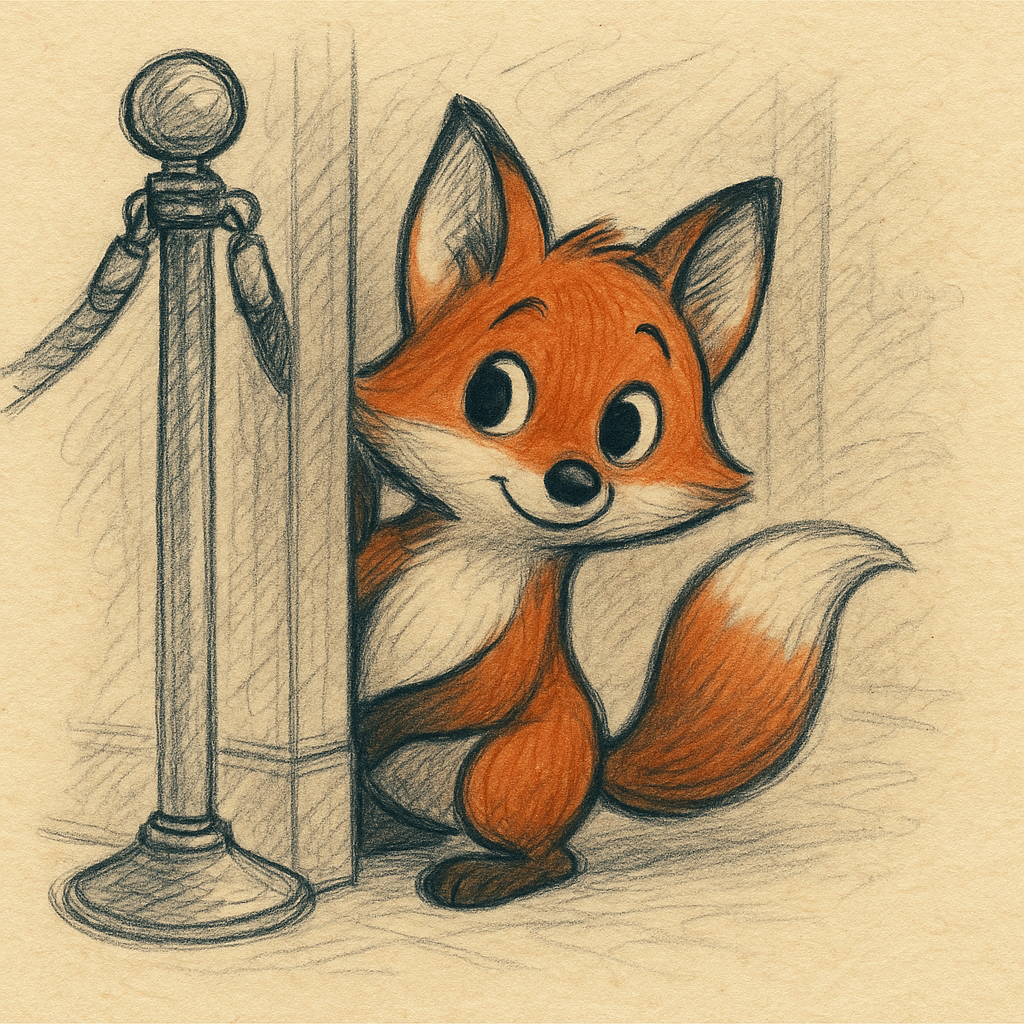
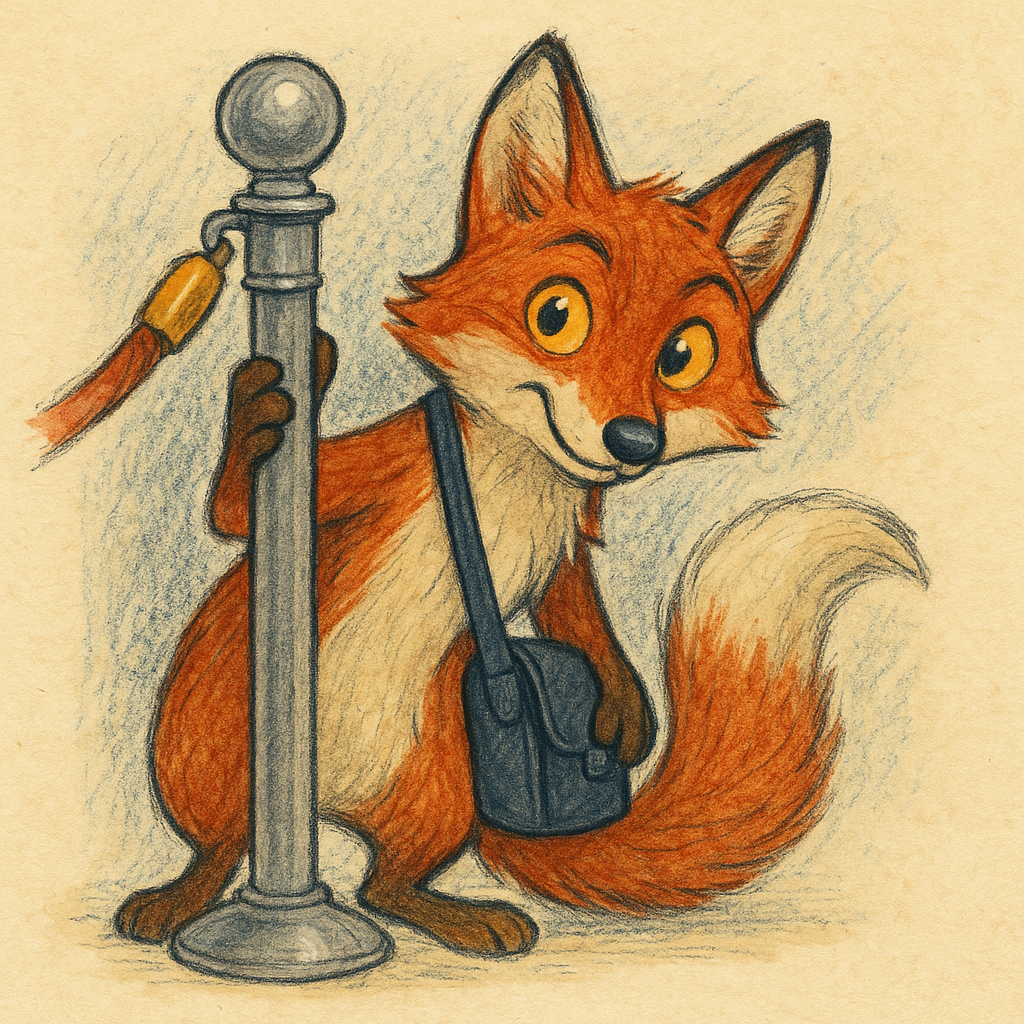
Regenerate home-spot-1.png with consistent Dart character description

diff --git a/design/regen_spot1.py b/design/regen_spot1.py
@@ -1,0 +1,52 @@
+#!/usr/bin/env python3
+"""Regenerate home-spot-1.png with full character consistency description."""
+
+import os
+import base64
+from openai import OpenAI
+
+client = OpenAI(api_key=os.environ["OPENAI_API_KEY"])
+OUTPUT_DIR = "/Users/james/dev/dart-website/public/images"
+
+CHARACTER_DESC = (
+    "Dart is a rust-orange fox: warm rust-orange coat, cream/ivory chest and muzzle, "
+    "bright expressive amber/golden eyes (intelligent and friendly), fluffy tail with cream-colored tip, "
+    "wears a small dark navy satchel/messenger bag. Upright posture, slightly anthropomorphic — "
+    "walks on hind legs, uses forepaws. "
+    "Style: hand-illustrated storybook, detailed but not photorealistic — classic Disney concept art meets "
+    "Beatrix Potter meets vintage travel poster illustration. "
+    "Watercolor and gouache textures, warm buttercream and twilight navy palette. "
+    "Loose pencil under-drawing visible, chalky paper texture. Hand-drawn feel, NOT digital flat shapes. "
+)
+
+SCENE = (
+    "Dart the fox peeking around the corner of a stylized velvet-rope queue stanchion — "
+    "one paw grasping the chrome post, half the face and one bright amber eye visible, "
+    "fluffy tail curling around behind. The fox looks curious and slightly mischievous. "
+    "The navy satchel strap is visible on the shoulder. "
+    "Warm cream paper background, rust-orange fox fur, navy ink outlines, gold accent on the velvet rope. "
+    "Square composition (1024x1024). Style: vintage storybook sketch, Bill Peet character work, "
+    "watercolor and gouache with visible pencil under-drawing."
+)
+
+prompt = CHARACTER_DESC + SCENE
+
+print("Generating home-spot-1.png...")
+print(f"Prompt length: {len(prompt)} chars")
+
+response = client.images.generate(
+    model="gpt-image-1",
+    prompt=prompt,
+    size="1024x1024",
+    output_format="png",
+    n=1,
+)
+
+image_data = response.data[0].b64_json
+img_bytes = base64.b64decode(image_data)
+filepath = os.path.join(OUTPUT_DIR, "home-spot-1.png")
+with open(filepath, "wb") as f:
+    f.write(img_bytes)
+
+size_kb = len(img_bytes) / 1024
+print(f"Saved: {filepath} ({size_kb:.1f} KB)")
